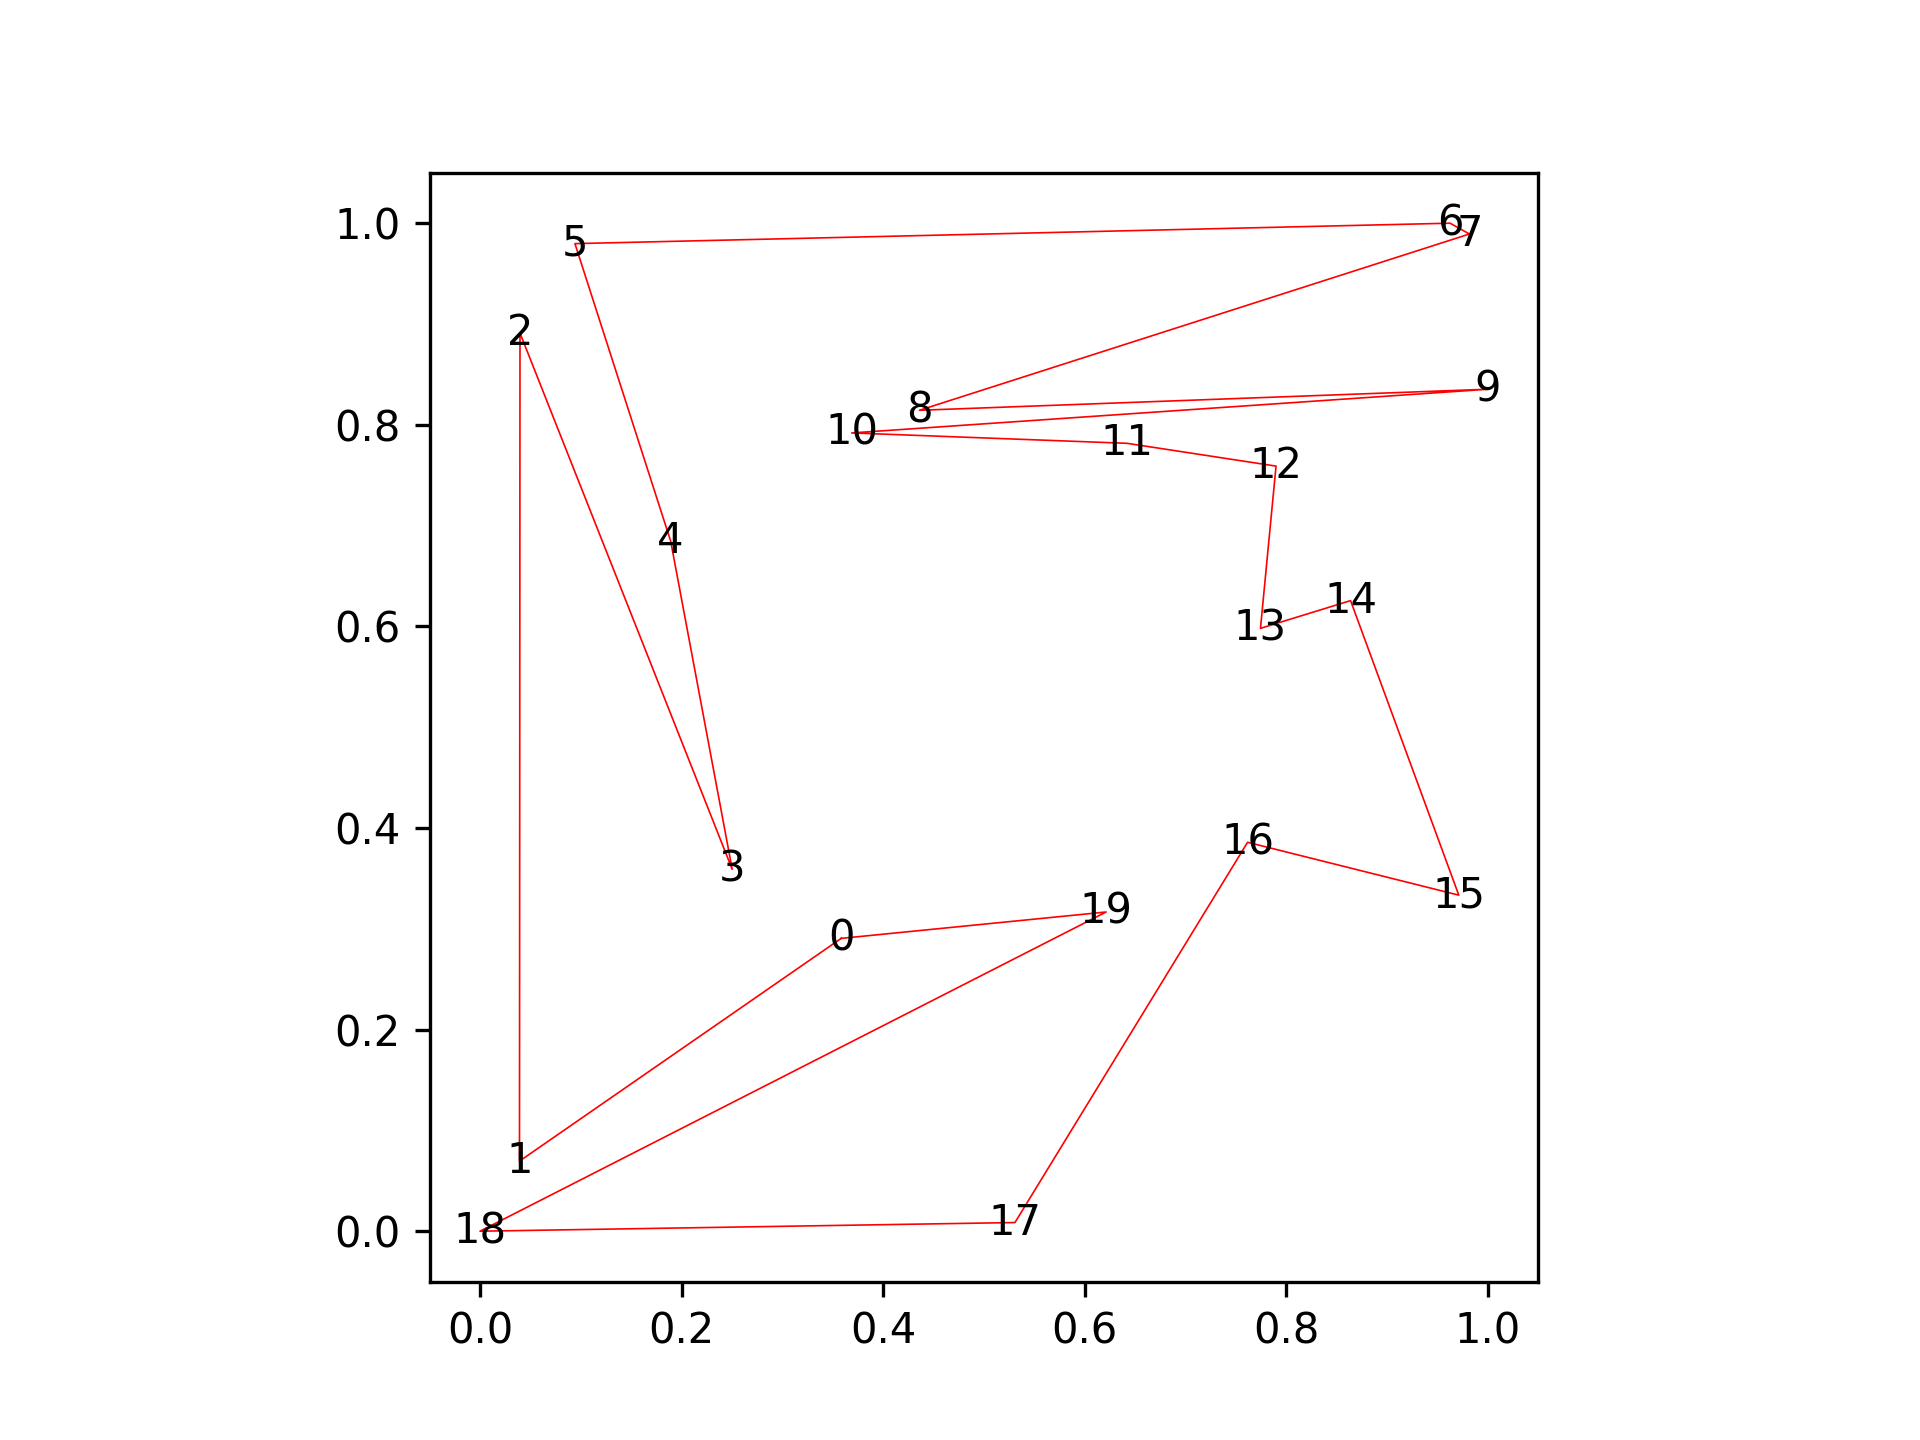
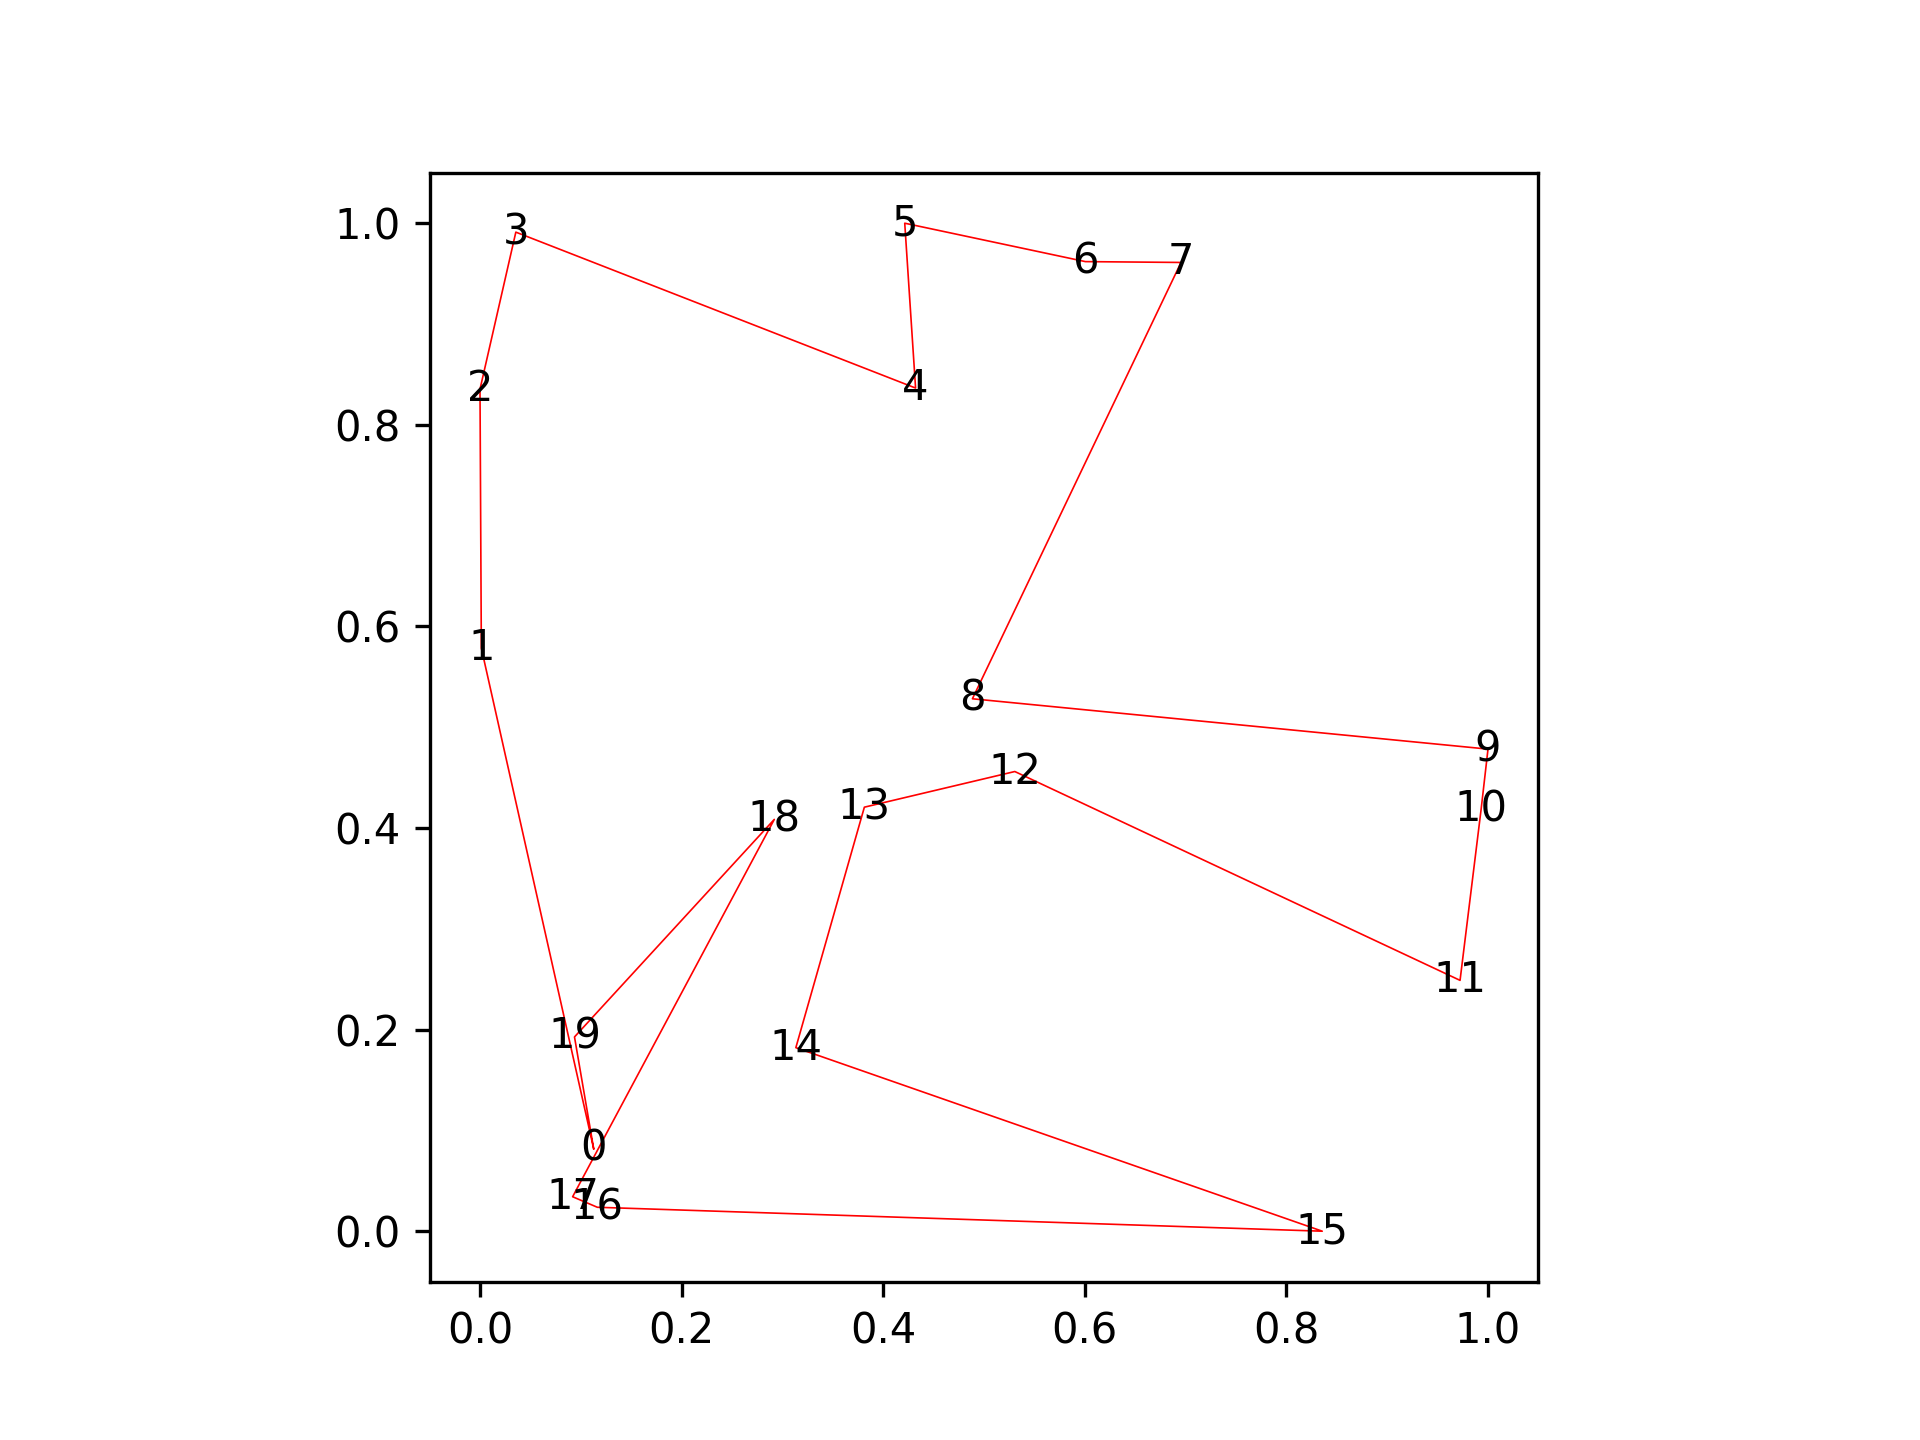
MP1 started

diff --git a/MP1.cpp b/MP1.cpp
@@ -1,0 +1,43 @@
+#include "MP1.hpp"
+
+bool is_right(pair<double, double> v1, pair<double, double> v2, pair<double, double> v3) {
+    //  v1->v2->v3, returns 1 if v3 is on the
+    // right of v1v2 else returns 0
+    double x1 = v1.first, y1 = v1.second;
+    double x2 = v2.first, y2 = v2.second;
+    double x3 = v3.first, y3 = v3.second;
+    double det = ((x2 - x1) * (y3 - y1)) - ((y2 - y1) * (x3 - x1));
+    return (det < 0);
+}
+
+void MP1(vector<pair<double, double>> vertices) {
+    // vertices vector of pair of coordinates read in CW order
+    int m = 1, i = 0, length = vertices.size();
+    pair<double, double> v1, v2;
+    vector<pair<double, double>> L;
+    L.push_back(vertices[i]);
+    while (length > 3) {
+        v1 = vertices[length - 1];
+        v2 = vertices[i + 1];
+        L.push_back(v2);
+        i += 1;
+        v2 = vertices[i + 1]; // ?? doubt, indexing is difficult
+        while (is_right())
+
+    }
+
+    return;
+}
+
+int main() {
+    // vector<pair<double, double>> vertices = input_polygon();
+    // for (pair<double, double> p : vertices)
+    //     // printing input vertices
+    //     cout << "x = " << p.first << ", y = " << p.second << endl;
+    pair<double, double> v1, v2, v3;
+    v1 = make_pair(0, 0);
+    v2 = make_pair(5, 5);
+    v3 = make_pair(3, 3);
+    cout << is_right(v1, v2, v3) << endl;
+    return 0;
+}

diff --git a/polygon.py b/polygon.py
@@ -1,11 +1,6 @@
-from polygenerator import (
-    random_polygon,
-    random_star_shaped_polygon,
-    random_convex_polygon,
-)
+from polygenerator import random_polygon
 # these two are only for demonstration
 import matplotlib.pyplot as plt
-import random
 
 
 def plot_polygon(polygon, out_file_name):
@@ -28,7 +23,7 @@ def plot_polygon(polygon, out_file_name):
 
 polygon = random_polygon(num_points=20)
 polygon.reverse()
-f = open("input.txt", "w")
+f = open("polygon.txt", "w")
 for (x, y) in polygon:
     x *= 100
     y *= 100

diff --git a/MP1.hpp b/MP1.hpp
@@ -1,0 +1,9 @@
+#include <iostream>
+#include <list>
+#include <utility>
+#include <vector>
+using namespace std;
+
+bool turn_right(pair<double, double> v1, pair<double, 
+            double> v2, pair<double, double> v3);
+void MP1(vector<pair<double, double>> vertices);
